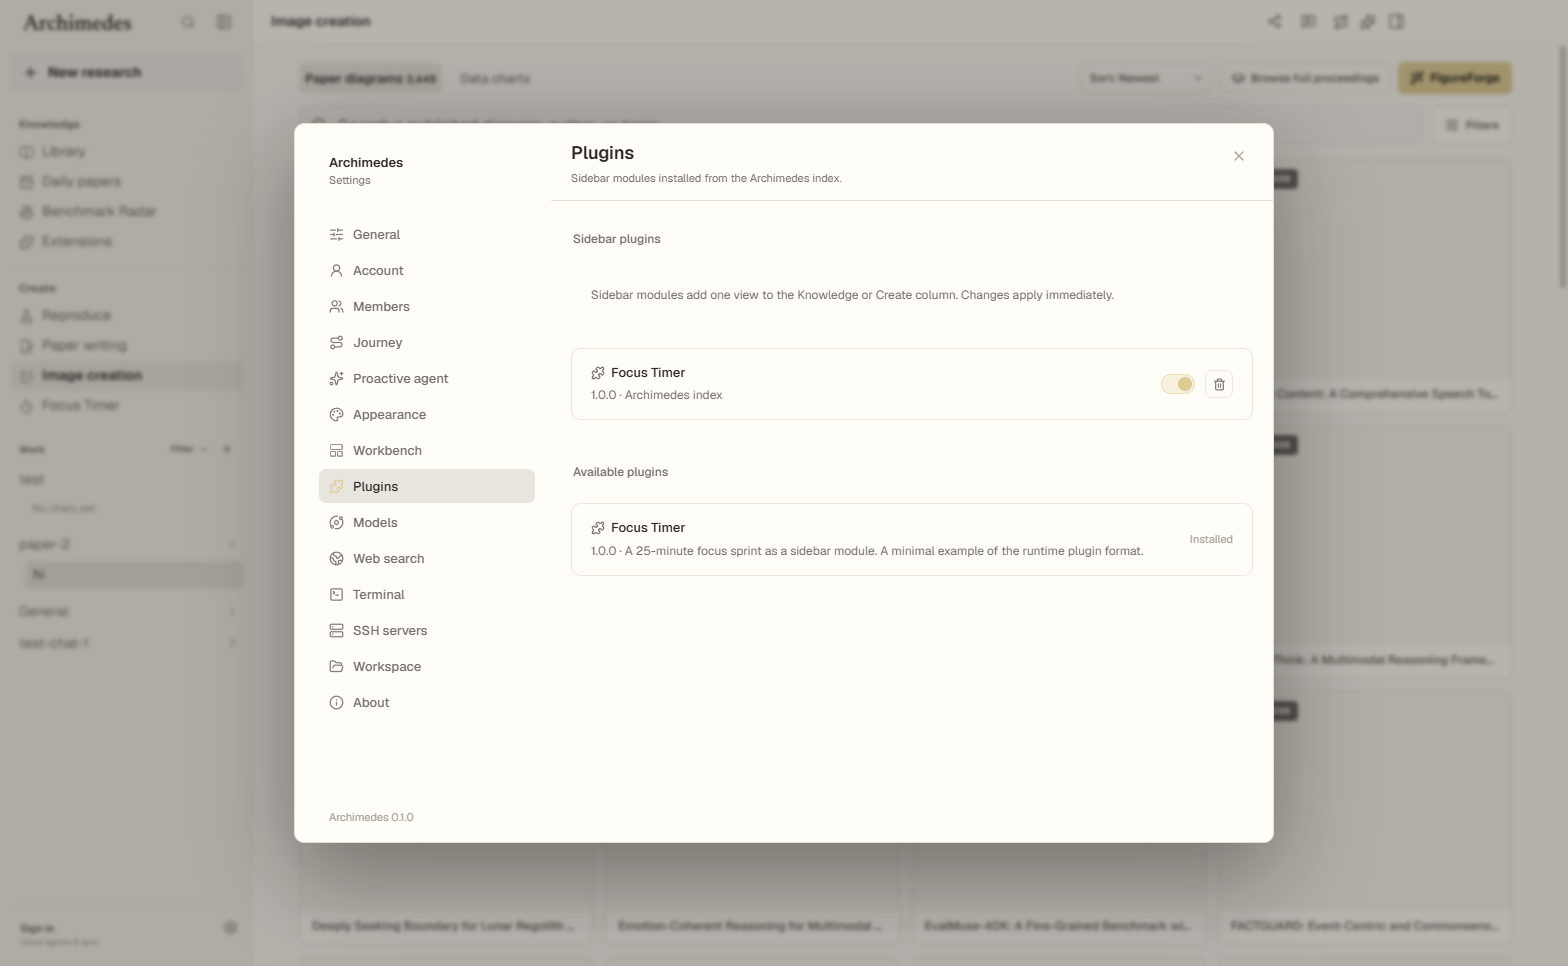
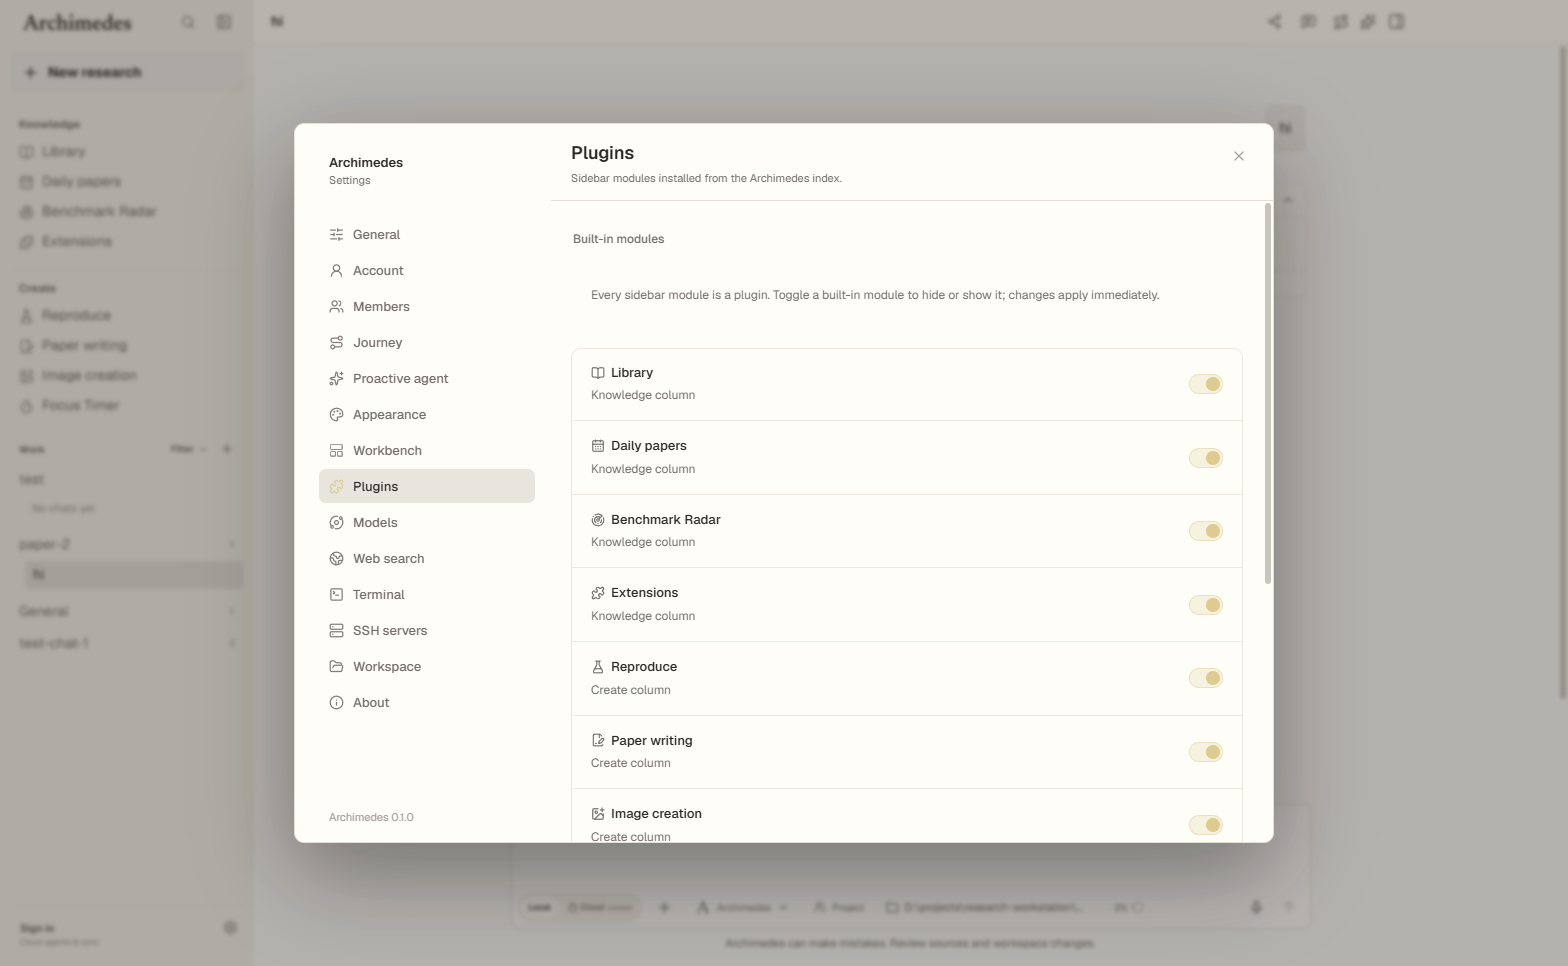
feat(plugins): manage built-in sidebar modules in Settings

diff --git a/src/App.tsx b/src/App.tsx
@@ -1814,6 +1814,29 @@ function App() {
     refreshSidebarPlugins();
   }, [refreshSidebarPlugins]);
 
+  const [disabledCoreModules, setDisabledCoreModules] = useState<string[]>([]);
+  const refreshSidebarSettings = useCallback(() => {
+    desktopBridge.getSidebarSettings().then((settings) => {
+      setDisabledCoreModules(settings.disabledCore);
+    }).catch(() => undefined);
+  }, []);
+
+  useEffect(() => {
+    refreshSidebarSettings();
+  }, [refreshSidebarSettings]);
+
+  // Core modules hidden in Settings disappear from the nav, palette, and view
+  // host; the chat section is not a module and can never be hidden.
+  const hiddenCoreModules = useMemo(() => new Set(disabledCoreModules), [disabledCoreModules]);
+  useEffect(() => {
+    if (mainSection !== "chat" && mainSection !== "files" && hiddenCoreModules.has(mainSection)) setMainSection("chat");
+  }, [hiddenCoreModules, mainSection]);
+
+  async function setCoreModuleEnabled(id: string, enabled: boolean) {
+    const settings = await desktopBridge.setCoreModuleEnabled(id, enabled);
+    setDisabledCoreModules(settings.disabledCore);
+  }
+
   function openWorkbench(tab: WorkbenchTabId) {
     setWorkbenchTab(tab);
     setWorkbenchOpen(true);
@@ -2847,7 +2870,7 @@ function App() {
   const mainTitle = mainSection === "chat" ? activeThread?.title ?? t("New research task") : activeModule ? t(activeModule.titleKey) : t("Files");
   const moduleCommands: PaletteCommand[] = (["knowledge", "create"] as const).flatMap((section) =>
     sidebarEntries(section)
-      .filter((entry) => !entry.disabled)
+      .filter((entry) => !entry.disabled && !hiddenCoreModules.has(entry.id))
       .map((entry) => ({
         id: entry.commandId,
         group: t(section === "knowledge" ? "Knowledge" : "Create"),
@@ -2913,7 +2936,7 @@ function App() {
         <nav className="sidebar-nav sidebar-modules" aria-label={t("Primary")}>
           {(["knowledge", "create"] as const).map((section) => <section className={`sidebar-group ${section}-group`} key={section}>
             <div className="codex-sidebar-label">{t(section === "knowledge" ? "Knowledge" : "Create")}</div>
-            {sidebarEntries(section).map((entry) => <button className={mainSection === entry.destination.section ? "codex-nav-item active" : "codex-nav-item"} key={entry.id} onClick={() => activateSidebarEntry(entry)} title={t(entry.labelKey)} disabled={entry.disabled}>
+            {sidebarEntries(section).filter((entry) => !hiddenCoreModules.has(entry.id)).map((entry) => <button className={mainSection === entry.destination.section ? "codex-nav-item active" : "codex-nav-item"} key={entry.id} onClick={() => activateSidebarEntry(entry)} title={t(entry.labelKey)} disabled={entry.disabled}>
               <entry.icon size={15} /><span>{t(entry.labelKey)}</span>{entry.badge && <span className="nav-tail">{t(entry.badge)}</span>}
             </button>)}
           </section>)}
@@ -3044,7 +3067,7 @@ function App() {
             {/* View host sidebar-modules: one looping projection, semantics derived from the module registry (keepMounted/cacheClass/requiresWorkspace/open gate). */}
             {(Object.entries(sidebarModuleContent) as [string, ReactNode][]).map(([id, content]) => {
               const entry = sidebarModule(id);
-              if (!entry) return null;
+              if (!entry || hiddenCoreModules.has(id)) return null;
               const active = mainSection === id;
               const opened = sidebarModuleOpen[id] !== false;
               const ready = !entry.requiresWorkspace || workspaceReady;
@@ -3271,6 +3294,8 @@ function App() {
         onSignOut={signOut}
         onOpenAuth={(mode) => { setSettingsOpen(false); openAuth(mode || "choice"); }}
         onPluginsChanged={refreshSidebarPlugins}
+        disabledCoreModules={disabledCoreModules}
+        onCoreModuleEnabled={(id, enabled) => void setCoreModuleEnabled(id, enabled).catch(() => undefined)}
       />
       {commentsOpen && activeThreadId && (activeThread?.project_id || activeProjectId) && <ThreadCommentsModal
         bridge={desktopBridge}

diff --git a/src/PluginsSettingsPanel.tsx b/src/PluginsSettingsPanel.tsx
@@ -2,6 +2,7 @@ import { useCallback, useEffect, useState } from "react";
 import { Download, LoaderCircle, Puzzle, Trash2 } from "lucide-react";
 
 import { useUISettings } from "./i18n";
+import { coreSidebarEntries } from "./sidebar-registry";
 import { SettingsGroup, SettingsRow, SettingsSection, SettingsSwitch } from "./SettingsPrimitives";
 
 function readable(value: unknown, fallback: string) {
@@ -15,10 +16,12 @@ function readable(value: unknown, fallback: string) {
  * and removing a sidebar module all happen in this panel, and every change
  * reloads the live sidebar through onPluginsChanged.
  */
-export default function PluginsSettingsPanel({ bridge, workspace, onPluginsChanged }: {
+export default function PluginsSettingsPanel({ bridge, workspace, onPluginsChanged, disabledCoreModules, onCoreModuleEnabled }: {
   bridge: ResearchDeskBridge;
   workspace: string;
   onPluginsChanged?: () => void;
+  disabledCoreModules: string[];
+  onCoreModuleEnabled: (id: string, enabled: boolean) => void;
 }) {
   const { t } = useUISettings();
   const [plugins, setPlugins] = useState<SidebarPluginRecord[]>([]);
@@ -27,6 +30,7 @@ export default function PluginsSettingsPanel({ bridge, workspace, onPluginsChang
   const [error, setError] = useState("");
   const [busy, setBusy] = useState("");
   const [notice, setNotice] = useState("");
+  const hiddenCore = new Set(disabledCoreModules);
 
   const load = useCallback(async () => {
     setLoading(true);
@@ -90,6 +94,27 @@ export default function PluginsSettingsPanel({ bridge, workspace, onPluginsChang
   }
 
   return <div className="settings-sections">
+    <SettingsSection title={t("Built-in modules")}>
+      <SettingsRow
+        stacked
+        description={t("Every sidebar module is a plugin. Toggle a built-in module to hide or show it; changes apply immediately.")}
+      />
+      <SettingsGroup className="plugins-settings-list">
+        {coreSidebarEntries.map((entry) => <SettingsRow
+          key={entry.id}
+          title={t(entry.labelKey)}
+          description={t(entry.section === "knowledge" ? "Knowledge column" : "Create column")}
+          icon={<entry.icon size={14} />}
+        >
+          <SettingsSwitch
+            checked={!hiddenCore.has(entry.id)}
+            label={hiddenCore.has(entry.id) ? t("Enable") : t("Disable")}
+            disabled={busy === entry.id}
+            onChange={(enabled) => onCoreModuleEnabled(entry.id, enabled)}
+          />
+        </SettingsRow>)}
+      </SettingsGroup>
+    </SettingsSection>
     <SettingsSection title={t("Sidebar plugins")}>
       <SettingsRow
         stacked

diff --git a/src/i18n/translations/settings.ts b/src/i18n/translations/settings.ts
@@ -29,6 +29,7 @@ export const settings: Record<string, string> = {
   "Available models": "可用模型",
   "Available plugins": "可安装插件",
   "Build information": "版本信息",
+  "Built-in modules": "内置模块",
   "Button style": "按钮样式",
   "Button, dialog, shape, and shadow can be scoped; density, radius, motion, input, card, and menu stay global.": "按钮、对话框、形状和阴影可按界面定制；密度、圆角、动效、输入框、卡片和菜单保持全局。",
   "Cancel": "取消",
@@ -59,6 +60,7 @@ export const settings: Record<string, string> = {
   "Corner radius for buttons, inputs, and controls.": "按钮、输入框和控件的圆角。",
   "Could not load SSH servers.": "无法加载 SSH 服务器。",
   "Could not load the sidebar plugins.": "无法加载侧边栏插件。",
+  "Create column": "Create 栏",
   "Create or rotate a key in the provider dashboard.": "在提供商控制台创建或轮换密钥。",
   "Current folder and access": "当前文件夹与访问权限",
   "Current workspace": "当前工作区",
@@ -81,6 +83,7 @@ export const settings: Record<string, string> = {
   "Elevation and surface treatment for dialogs and menus.": "对话框与菜单的层次和表面处理。",
   "Enable": "启用",
   "Enter {provider} API key": "输入 {provider} API key",
+  "Every sidebar module is a plugin. Toggle a built-in module to hide or show it; changes apply immediately.": "每个侧边栏模块都是插件。用开关隐藏或显示内置模块，更改立即生效。",
   "Export the current appearance or import a shared .archtheme.json file.": "导出当前外观，或导入共享的 .archtheme.json 文件。",
   "External terminal": "外部终端",
   "Field fill and border treatment across the app.": "整个应用输入框的填充与边框处理。",
@@ -119,6 +122,7 @@ export const settings: Record<string, string> = {
   "Interface font": "界面字体",
   "Interface theme": "界面主题",
   "Keys are stored in Electron user data and never included in Agent messages. Search queries are sent directly to the selected provider.": "密钥存储在 Electron 用户数据中，不会包含在 Agent 消息里。搜索查询会直接发送给所选提供商。",
+  "Knowledge column": "Knowledge 栏",
   "Language": "语言",
   "Large": "大",
   "Larger": "更大",

diff --git a/src/SettingsModal.tsx b/src/SettingsModal.tsx
@@ -63,6 +63,8 @@ type SettingsModalProps = {
   onSignOut: () => Promise<AuthState>;
   onOpenAuth: (mode?: "choice" | "password" | "signup" | "reset") => void;
   onPluginsChanged?: () => void;
+  disabledCoreModules: string[];
+  onCoreModuleEnabled: (id: string, enabled: boolean) => void;
 };
 
 const sections: Array<{ id: SettingsSection; label: string; icon: React.ReactNode }> = [
@@ -140,6 +142,8 @@ export default function SettingsModal({
   onSignOut,
   onOpenAuth,
   onPluginsChanged,
+  disabledCoreModules,
+  onCoreModuleEnabled,
 }: SettingsModalProps) {
   const { language, setLanguage, textSize, setTextSize, interfaceFont, setInterfaceFont, monoFont, setMonoFont, fileIconStyle, setFileIconStyle, chatVerbosity, setChatVerbosity, t } = useUISettings();
   const [scope, setScope] = useState<SurfaceScope | "global">("global");
@@ -673,7 +677,7 @@ export default function SettingsModal({
 
             {section === "models" && <ModelSettingsModal bridge={bridge} open embedded onClose={() => undefined} onSaved={onModelSaved} executionPreferences={executionPreferences} />}
             {section === "ssh" && <SshServersPanel bridge={bridge} />}
-            {section === "plugins" && <PluginsSettingsPanel bridge={bridge} workspace={workspace} onPluginsChanged={onPluginsChanged} />}
+            {section === "plugins" && <PluginsSettingsPanel bridge={bridge} workspace={workspace} onPluginsChanged={onPluginsChanged} disabledCoreModules={disabledCoreModules} onCoreModuleEnabled={onCoreModuleEnabled} />}
             {section === "web" && <WebSearchSettingsModal bridge={bridge} open embedded onClose={() => undefined} />}
             {section === "terminal" && (terminalSettings
               ? <TerminalSettingsModal open embedded mode="settings" settings={terminalSettings} workspace={workspace} onClose={() => undefined} onSave={onSaveTerminalSettings} onOpenExternal={onOpenExternalTerminal} />

diff --git a/src/vite-env.d.ts b/src/vite-env.d.ts
@@ -216,6 +216,8 @@ interface ResearchDeskBridge {
     stopTerminal: (sessionId: string) => Promise<void>;
     getJourneySettings: () => Promise<JourneySettings>;
     getWorkbenchSettings: () => Promise<{ version: number; order: string[]; hidden: string[] }>;
+    getSidebarSettings: () => Promise<{ version: number; disabledCore: string[] }>;
+    setCoreModuleEnabled: (id: string, enabled: boolean) => Promise<{ version: number; disabledCore: string[] }>;
     saveWorkbenchSettings: (input: { version?: number; order: string[]; hidden: string[] }) => Promise<{ version: number; order: string[]; hidden: string[] }>;
     resetWorkbenchSettings: () => Promise<{ version: number; order: string[]; hidden: string[] }>;
     getWorkbenchNote: (key: string) => Promise<{ content: string; updatedAt: string | null }>;
